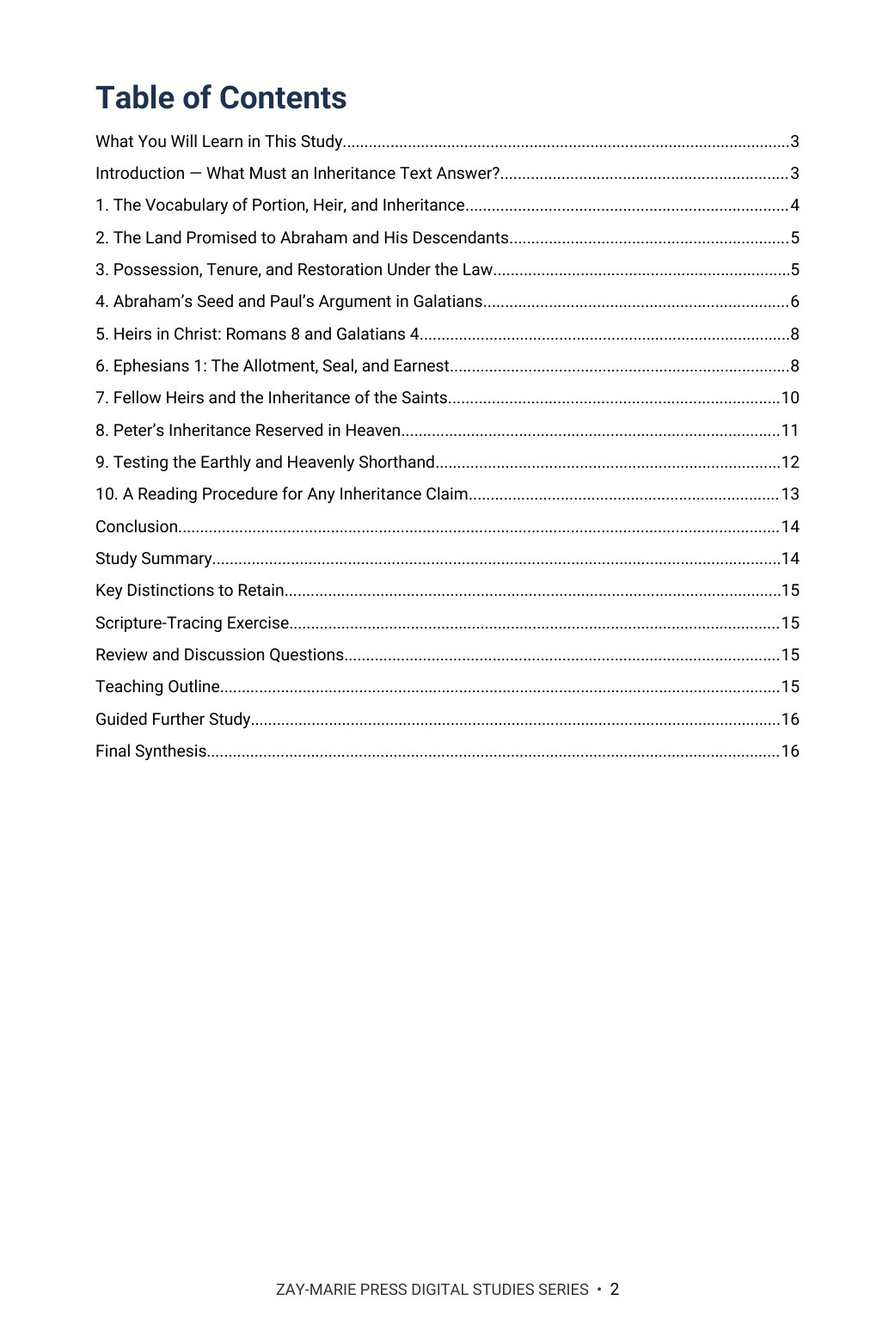
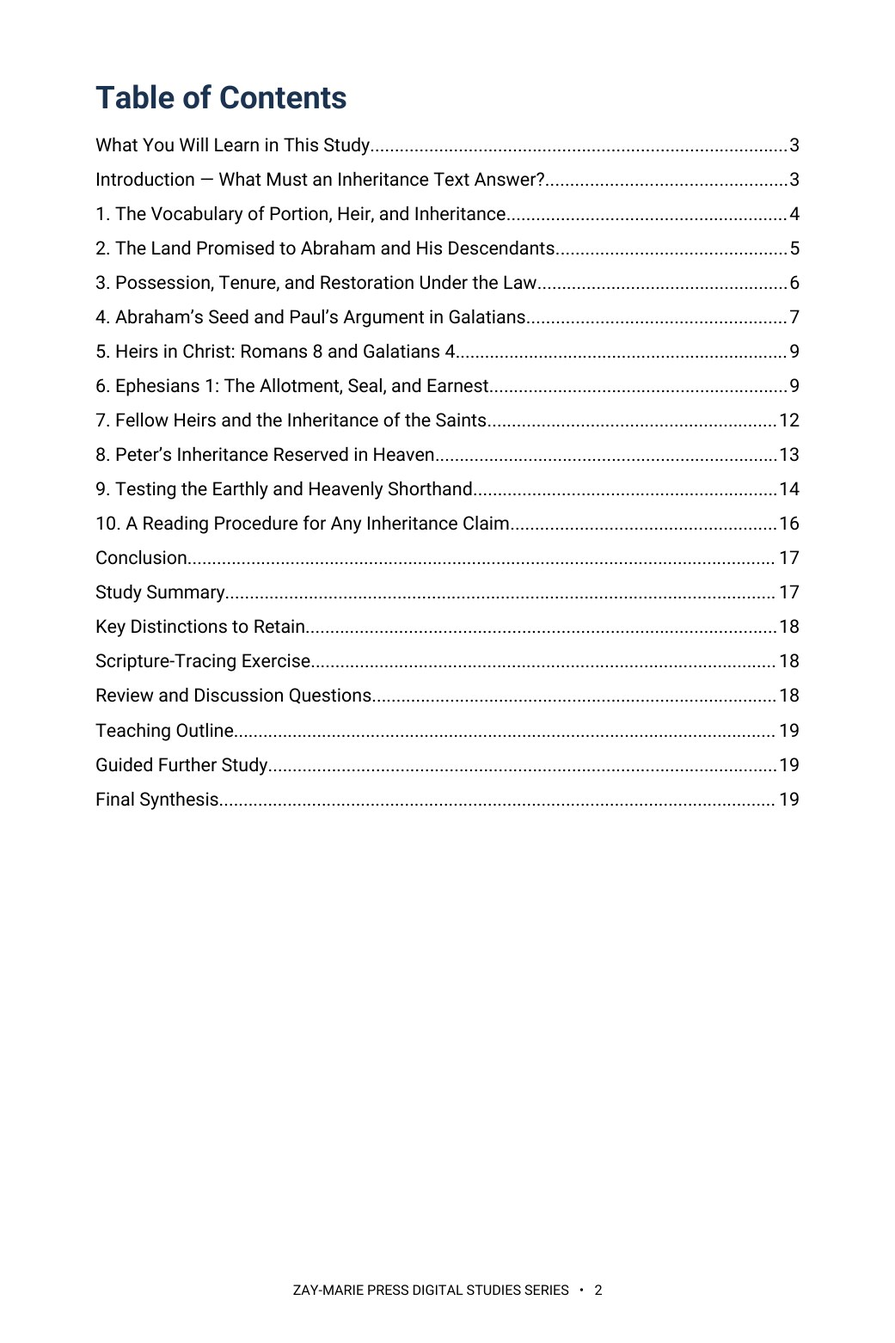
Study 56: rebuild at 10 pt (20 pages), retrofit edits, previews 2/3/4; trackers v1.69/v1.163
Claude-Session: https://claude.ai/code/session_01KcENxFzE91mCRyTPWhcwnE

Changed region(s): [[0.0922, 0.0922, 0.6148, 0.6146], [0.8607, 0.0922, 0.8915, 0.5839], [0.3074, 0.9526, 0.6455, 0.9834]]

diff --git a/study-56-inheritance.html b/study-56-inheritance.html
@@ -1,13 +1,13 @@
 <!doctype html>
-<html lang="en"><head><meta charset="utf-8"><meta name="viewport" content="width=device-width,initial-scale=1"><title>Inheritance | Zay-Marie Press</title><meta name="description" content="Study 56 examines inheritance language across Israel’s land promise, Paul’s teaching about heirs in Christ, and Peter’s inheritance reserved in heaven. Preview the 16-page study."><link rel="stylesheet" href="styles.css?v=20260921-4"><link rel="icon" type="image/png" href="assets/zay-marie-press-favicon.png"><style>
+<html lang="en"><head><meta charset="utf-8"><meta name="viewport" content="width=device-width,initial-scale=1"><title>Inheritance | Zay-Marie Press</title><meta name="description" content="Study 56 examines inheritance language across Israel’s land promise, Paul’s teaching about heirs in Christ, and Peter’s inheritance reserved in heaven. Preview the 20-page study."><link rel="stylesheet" href="styles.css?v=20260921-4"><link rel="icon" type="image/png" href="assets/zay-marie-press-favicon.png"><style>
 .study-detail-page{background:#fff;color:#252525}.detail-hero{background:linear-gradient(135deg,#f8f5ec,#e3ece2);padding:58px 0}.detail-hero-grid{display:grid;grid-template-columns:minmax(250px,.72fr) minmax(0,1.28fr);gap:58px;align-items:center}.detail-cover{max-width:390px;margin:auto}.detail-cover img{display:block;width:100%;height:auto;box-shadow:0 14px 36px rgba(8,45,69,.18)}.detail-hero h1{font-size:clamp(2.7rem,5vw,4.7rem);line-height:1.02;margin:8px 0 10px;color:#143823}.detail-subtitle{font-family:Georgia,serif;font-size:1.35rem;font-weight:700;color:#082d45;margin:0 0 7px}.detail-kicker{font-family:Georgia,serif;font-style:italic;font-size:1.05rem;color:#4a4a44;margin:0 0 22px}.detail-copy{font-size:1.08rem;line-height:1.65;max-width:760px}.detail-buyline{display:flex;align-items:center;gap:18px;flex-wrap:wrap;margin-top:25px}.detail-price{font-family:Georgia,serif;font-size:2rem;font-weight:700;color:#143823}.detail-format,.preview-card .page-no{font-family:Arial,sans-serif;font-size:.76rem;font-weight:700;letter-spacing:.1em;text-transform:uppercase;color:#176b3a}.detail-button{display:inline-block;background:#176b3a;color:#fff;padding:13px 22px;font-family:Arial,sans-serif;font-size:.8rem;font-weight:700;letter-spacing:.07em;text-transform:uppercase}.detail-button.pending{opacity:.72;cursor:default}.detail-section{padding:66px 0}.detail-section.soft{background:#f6f7f2}.detail-section.cream{background:#faf8f2}.detail-section h2{color:#143823;margin:6px 0 18px;font-size:clamp(2rem,3.4vw,3rem)}.detail-section .lead{max-width:920px;font-size:1.1rem;line-height:1.62}.study-distinction{max-width:920px;margin-top:28px;margin-bottom:28px;padding:26px 28px;background:#fff;border:1px solid #d8d1bf;border-left:4px solid #b8871c}.study-distinction h3{margin:0 0 10px;color:#143823}.study-distinction p{margin:0 0 14px;line-height:1.62}.study-distinction a{font-family:Arial,sans-serif;font-weight:700;color:#176b3a;text-decoration:none}.study-points{display:grid;grid-template-columns:repeat(3,1fr);gap:18px;margin-top:28px;margin-bottom:28px}.study-point,.scripture-card,.preview-card,.include-item{background:#fff;border:1px solid var(--line);text-align:left}.study-point{border-top:3px solid #176b3a;padding:22px}.study-point h3{color:#143823;margin:0 0 8px;font-size:1.2rem}.study-point p,.scripture-card p,.preview-card p,.include-item p{margin:0;line-height:1.55}.scripture-grid{display:grid;grid-template-columns:repeat(4,1fr);gap:14px;margin-top:24px;margin-bottom:24px}.scripture-card{padding:22px 20px;color:#143823}.scripture-card h3{margin:0 0 9px;font-family:Georgia,serif;font-size:1rem;line-height:1.35}.scripture-card p{font-size:.94rem;color:#45453f}.excerpt{max-width:900px;margin:28px auto;border-left:4px solid #b8871c;padding:10px 0 10px 28px}.excerpt blockquote{font-family:Georgia,serif;font-size:clamp(1.45rem,2.5vw,2rem);line-height:1.45;color:#143823;margin:0 0 16px}.excerpt p{line-height:1.6;margin:0}.preview-grid{display:grid;grid-template-columns:repeat(2,1fr);gap:20px;margin-top:28px;margin-bottom:28px}.preview-card{padding:18px;min-height:210px;box-shadow:0 7px 20px rgba(20,40,25,.05)}.preview-image-link{display:block;margin:0 0 18px}.preview-image-link img{display:block;width:100%;height:auto;border:1px solid #d8d1bf;box-shadow:0 8px 22px rgba(20,40,25,.1);transition:transform .18s ease,box-shadow .18s ease}.preview-image-link:hover img{transform:translateY(-2px);box-shadow:0 11px 28px rgba(20,40,25,.16)}.preview-card h3{color:#143823;margin:8px 0 10px}.preview-instruction{margin:10px 0 0;font-family:Arial,sans-serif;font-size:.78rem;letter-spacing:.04em;color:#5b5b55}.includes-grid{display:grid;grid-template-columns:repeat(4,1fr);gap:14px;margin-top:26px}.include-item{padding:22px 20px;color:#143823}.include-item h3{margin:0 0 9px;font-family:Arial,sans-serif;font-size:.86rem;line-height:1.35;letter-spacing:.02em}.include-item p{font-size:.94rem;color:#45453f}.final-buy{background:#082d45;color:#fff;border-top:4px solid #b8871c;padding:42px 48px;display:grid;grid-template-columns:1fr auto;gap:36px;align-items:center}.final-buy .eyebrow,.final-buy h2,.final-buy .detail-price{color:#fff}.final-buy h2{margin:7px 0 6px}.final-buy p{margin:0}.final-offer{text-align:center}.back-link{display:inline-block;margin-top:18px;color:#143823;font-family:Arial,sans-serif;font-weight:700;text-decoration:none}.preview-lightbox{position:fixed;inset:0;z-index:10000;display:none;align-items:flex-start;justify-content:center;background:rgba(8,22,16,.88);padding:24px;overflow:auto}.preview-lightbox.open{display:flex}.preview-lightbox img{display:block;width:auto;height:auto;max-width:none;box-shadow:0 18px 55px rgba(0,0,0,.4);background:#fff}.preview-lightbox-close{position:fixed;top:18px;right:24px;z-index:10001;width:46px;height:46px;border:1px solid rgba(255,255,255,.65);border-radius:50%;background:rgba(0,0,0,.55);color:#fff;font:32px/1 Arial,sans-serif;cursor:pointer}@media(max-width:900px){.detail-hero-grid{grid-template-columns:1fr;gap:34px}.detail-cover{max-width:330px}.study-points{grid-template-columns:repeat(2,1fr)}.scripture-grid,.includes-grid{grid-template-columns:repeat(2,1fr)}.preview-grid,.final-buy{grid-template-columns:1fr}.final-offer{text-align:left}}@media(max-width:560px){.detail-hero{padding:42px 0}.detail-section{padding:50px 0}.study-points,.scripture-grid,.includes-grid{grid-template-columns:1fr}.final-buy{padding:32px 24px}.detail-buyline{align-items:flex-start;flex-direction:column;gap:8px}.preview-lightbox{padding:58px 10px 24px}.preview-lightbox img{width:100%;max-width:100%;height:auto}} .detail-hero h1{font-size:clamp(2.1rem,4.2vw,3.7rem);line-height:1.08}</style></head><body class="study-detail-page">
 <header class="site-header"><div class="wrap nav"><a class="logo" href="index.html" aria-label="Zay-Marie Press home"><img src="assets/zay-marie-press-logo-hq.png" alt="Zay-Marie Press" width="420" height="238"></a><button class="menu-toggle" type="button" aria-expanded="false" aria-controls="primary-nav">MENU</button><nav aria-label="Primary navigation" class="primary-nav" id="primary-nav"><a href="index.html">HOME</a><a href="books.html">BOOKS</a><a href="series.html">SERIES</a><a class="active" aria-current="page" href="digital-studies.html">DIGITAL STUDIES</a><a href="biblical-hermeneutics-course.html">COURSE</a><a href="about.html">ABOUT</a><a href="resources.html">RESOURCES</a><a href="contact.html">CONTACT</a></nav></div></header><main>
-<section class="detail-hero"><div class="wrap detail-hero-grid"><div class="detail-cover"><picture><source srcset="assets/study-56-cover.webp" type="image/webp"><img src="assets/study-56-cover.jpg" alt="Inheritance — Study 56 cover"></picture></div><div><div class="eyebrow">STUDY 56 · DIGITAL STUDY</div><h1>Inheritance</h1><p class="detail-subtitle">Israel’s Land Promise, the Body’s Inheritance in Christ, and the Meaning of Heir Language</p><p class="detail-kicker">A passage-by-passage word study of promise, heirship, and possession</p><p class="detail-copy">What does Scripture actually grant when it calls someone an heir? This study asks who gives, who receives, what is promised, on what basis, and when it is enjoyed. It follows Israel’s named land promise, Paul’s teaching about heirs in Christ, and Peter’s imperishable inheritance reserved in heaven.</p><p class="detail-copy">The same inheritance vocabulary does not make every promised possession identical. Read Genesis, Deuteronomy, Galatians, Romans, Ephesians, Colossians, and 1 Peter with each passage’s recipients and stated object in view.</p><div class="detail-buyline"><span class="detail-price">$5.99</span><span class="detail-format">Digital PDF · 16 Pages</span><span class="detail-button pending" aria-disabled="true">Checkout Coming Soon</span></div></div></div></section>
+<section class="detail-hero"><div class="wrap detail-hero-grid"><div class="detail-cover"><picture><source srcset="assets/study-56-cover.webp" type="image/webp"><img src="assets/study-56-cover.jpg" alt="Inheritance — Study 56 cover"></picture></div><div><div class="eyebrow">STUDY 56 · DIGITAL STUDY</div><h1>Inheritance</h1><p class="detail-subtitle">Israel’s Land Promise, the Body’s Inheritance in Christ, and the Meaning of Heir Language</p><p class="detail-kicker">A passage-by-passage word study of promise, heirship, and possession</p><p class="detail-copy">What does Scripture actually grant when it calls someone an heir? This study asks who gives, who receives, what is promised, on what basis, and when it is enjoyed. It follows Israel’s named land promise, Paul’s teaching about heirs in Christ, and Peter’s imperishable inheritance reserved in heaven.</p><p class="detail-copy">The same inheritance vocabulary does not make every promised possession identical. Read Genesis, Deuteronomy, Galatians, Romans, Ephesians, Colossians, and 1 Peter with each passage’s recipients and stated object in view.</p><div class="detail-buyline"><span class="detail-price">$5.99</span><span class="detail-format">Digital PDF · 20 Pages</span><span class="detail-button pending" aria-disabled="true">Checkout Coming Soon</span></div></div></div></section>
 <section class="detail-section"><div class="wrap"><div class="eyebrow">ABOUT THIS STUDY</div><h2>What Does Each Heir Receive?</h2><p class="lead">God names a land for Abraham’s covenant line; the law orders Israel’s enjoyment and anticipates judgment and restoration. Paul calls believers sons and heirs in Christ, names the Spirit as the earnest of an inheritance, and describes Gentiles as fellow heirs in one Body. Peter promises an imperishable inheritance reserved in heaven. The study reads these statements together without making a shared word settle what each passage leaves unstated.</p><p class="lead">Study 5 surveys the Body’s wider heavenly calling; this study examines the narrower question of what inheritance passages say an heir receives. Study 17 establishes the Abrahamic covenant’s line, land, nation, and blessing, while Study 56 follows how the promised land is held, historically possessed, and expected after dispersion. Study 40 asks how Paul uses Abraham’s seed, faith, and promise; this study compares that heir language with other apostolic inheritance passages. Study 52 establishes sonship and adoption; this study asks what follows from the status of heir. The question Study 56 alone follows across these settings is: who inherits what, on what basis, and when?</p>
 <div class="study-distinction"><h3>How These Studies Relate</h3><p>Study 56 traces the promised possession in each context. These neighboring studies establish the covenant, calling, and heir status needed for that comparison.</p><p><a href="study-05-the-heavenly-calling.html">Study 5 — The Heavenly Calling</a> Read the full pattern of the Body’s position, blessings, citizenship, hope, and purpose; then use Study 56 to examine the inheritance language within it.</p><p><a href="study-17-the-abrahamic-covenant.html">Study 17 — The Abrahamic Covenant</a> Establish the covenant’s named land and line in Genesis before comparing later claims about heirs and possession.</p><p><a href="study-40-who-is-abrahams-seed.html">Study 40 — Who Is Abraham’s Seed?</a> Follow Paul’s specific seed and promise argument in Romans and Galatians; then test inheritance claims across a wider group of passages.</p><p><a href="study-57-the-eternal-purpose-of-god.html">Study 57 — The Eternal Purpose of God</a> Read Ephesians 1–3 on purpose and headship after Study 56 identifies the heirs and objects each inheritance passage names; one comprehensive purpose does not silently transfer Israel’s land grant.</p><p class="connection-guide-link"><a href="study-connections.html#study-56">Explore the full connection guide for Study 56 →</a></p></div>
 <div class="eyebrow">WHAT YOU’LL STUDY</div><h2>Read the Promise, the Heir, and the Possession</h2><div class="study-points"><div class="study-point"><h3>Inheritance Vocabulary</h3><p>Trace naḥălâ, klēronomia and the related terms through their clauses, noting what each leaves unstated about giver, heir and object.</p></div><div class="study-point"><h3>The Land Promise</h3><p>Follow Genesis 15:8, Genesis 17:7–8 and Deuteronomy 30:1–5, noting the object each names and how the Mosaic law orders Israel’s tenure.</p></div><div class="study-point"><h3>Heirs in Christ</h3><p>Read Galatians 3–4 and Romans 8 in sequence, marking each step Paul names from promise to faith, the Spirit, adoption and heirship.</p></div><div class="study-point"><h3>The Spirit’s Earnest</h3><p>Work through Ephesians 1:11–14 and 3:6 clause by clause, marking the pronouns, the verb in verse 11 and the word “earnest.”</p></div><div class="study-point"><h3>Peter’s Reserved Inheritance</h3><p>Read 1 Peter 1:1–9 in its own setting, noting its addressees and what “reserved in heaven” does and does not state.</p></div><div class="study-point"><h3>A Repeatable Reading Method</h3><p>Practice six questions on each passage: giver, heir, object, basis, timing and what the text leaves unstated.</p></div></div>
 <div class="eyebrow">KEY SCRIPTURES</div><h2>Compare the Texts Without Flattening Them</h2><div class="scripture-grid"><div class="scripture-card"><h3>Genesis 15:7–21</h3><p>Trace Abram’s question about inheriting and the object God names in answer.</p></div><div class="scripture-card"><h3>Deuteronomy 30:1–10</h3><p>Mark who is addressed, what is gathered, and the land that is possessed.</p></div><div class="scripture-card"><h3>Galatians 3:14–29; 4:4–7</h3><p>Follow the sequence from promise and blessing to the Spirit, adoption and heirs.</p></div><div class="scripture-card"><h3>Romans 8:14–25</h3><p>Note how children, joint heirs, suffering and future glory are joined.</p></div><div class="scripture-card"><h3>Ephesians 1:11–18; 3:6</h3><p>Compare the pronouns “we,” “ye” and “our,” the earnest, and the fellow-heir coordination.</p></div><div class="scripture-card"><h3>Joshua 21:43–45</h3><p>Read the fulfillment and rest language in its historical setting.</p></div><div class="scripture-card"><h3>Colossians 1:12–14</h3><p>Observe what the Father’s qualifying act states and what it leaves unlisted.</p></div><div class="scripture-card"><h3>1 Peter 1:1–5</h3><p>Mark the addressees, the three adjectives, and who keeps whom.</p></div></div>
 <div class="eyebrow">FROM THE STUDY</div><h2>A Question for Every Inheritance Text</h2><div class="excerpt"><blockquote>Who gives? Who receives? What is given? On what basis? When is it enjoyed?</blockquote><p>These questions keep a shared word from answering a question the passage never addresses.</p></div>
 <div class="eyebrow">A LOOK INSIDE</div><h2>Preview the Study Before You Purchase</h2><p class="preview-instruction">Click any page to enlarge it for reading.</p><div class="preview-grid"><div class="preview-card"><a class="preview-image-link" data-preview-lightbox href="assets/study-56-page-2.jpg"><img src="assets/study-56-page-2.jpg" alt="Study 56 interior page 2 table of contents"></a><div class="page-no">Interior Page 2</div><h3>Table of Contents</h3><p>See the study’s full sequence and the passages it compares.</p></div><div class="preview-card"><a class="preview-image-link" data-preview-lightbox href="assets/study-56-page-3.jpg"><img src="assets/study-56-page-3.jpg" alt="Study 56 interior page 3 learning outcomes and outline"></a><div class="page-no">Interior Page 3</div><h3>What You Will Learn</h3><p>Read the goal, questions, and method that guide the study.</p></div><div class="preview-card"><a class="preview-image-link" data-preview-lightbox href="assets/study-56-page-4.jpg"><img src="assets/study-56-page-4.jpg" alt="Study 56 interior page 4 on inheritance vocabulary"></a><div class="page-no">Interior Page 4</div><h3>The Vocabulary of Inheritance</h3><p>See how the word study begins with the heir and the object actually named.</p></div></div>
-<div class="eyebrow">WHAT’S INCLUDED</div><h2>A Focused Study of Inheritance</h2><div class="includes-grid"><div class="include-item"><h3>16-Page Digital PDF</h3><p>Approved cover and 15-page interior with a numbered table of contents.</p></div><div class="include-item"><h3>Ten Teaching Sections</h3><p>Move from vocabulary and covenant land to Paul’s and Peter’s inheritance passages.</p></div><div class="include-item"><h3>Passage Comparison Table</h3><p>Compare recipients, stated inheritance, and each text’s interpretive limit.</p></div><div class="include-item"><h3>Key Distinctions</h3><p>Keep covenant grant, tenure, sonship, present pledge, and future enjoyment distinct.</p></div><div class="include-item"><h3>Scripture-Tracing Exercise</h3><p>Apply six questions to the governing passages before comparing conclusions.</p></div><div class="include-item"><h3>Teaching Outline and Further Study</h3><p>Use the reading method to teach the subject and continue the investigation.</p></div></div>
-<div class="final-buy"><div><div class="eyebrow">STUDY 56 · DIGITAL STUDY</div><h2>Inheritance</h2><p>16-page digital PDF · For personal use</p></div><div class="final-offer"><div class="detail-price">$5.99</div><span class="detail-button pending" aria-disabled="true">Checkout Coming Soon</span></div></div><a class="back-link" href="digital-studies.html">← Back to All Digital Studies</a></div></section></main><div class="preview-lightbox" id="preview-lightbox" role="dialog" aria-modal="true" aria-label="Expanded study preview"><button class="preview-lightbox-close" type="button" aria-label="Close preview">×</button><img id="preview-lightbox-image" alt=""></div><footer class="site-footer"><div class="wrap footer-grid"><div class="footer-about"><h3>Zay-Marie Press</h3><p class="footer-tagline"><em>Where the Bible Means What It Says.</em></p><p>Zay-Marie Press is a Christian theological publisher dedicated to producing doctrinally precise, carefully structured biblical resources that equip pastors, teachers, and serious students with clarity, depth, and Scripture-anchored truth.</p><p><a href="https://zaymariepress.com">zaymariepress.com</a><br><a href="mailto:info@zaymariepress.com">info@zaymariepress.com</a></p></div><div class="footer-column"><h3>Explore</h3><div class="footer-links-stacked"><a href="books.html">Books</a><br><a href="series.html">Series</a><br><a href="biblical-hermeneutics-course.html">Course</a><br><a href="digital-studies.html">Digital Studies</a><br><a href="resources.html">Resources</a><br><a href="bible-book-summaries.html">Bible Book Summaries</a><br><a href="doctrinal-packets.html">Doctrinal Packets</a><br><a href="historical-drift.html">Historical Drift</a><br><a href="about.html">About</a><br><a href="contact.html">Contact</a></div></div><div class="footer-column"><h3>Reader Support</h3><div class="footer-links-stacked"><a href="reader-support.html#faq">FAQ</a><br><a href="reader-support.html#shipping-returns">Shipping &amp; Returns</a><br><a href="reader-support.html#digital-downloads">Digital Downloads</a><br><a href="reader-support.html#contact-support">Contact Support</a></div></div><div class="footer-column"><h3>Acts Overlap</h3><p><strong>Acts Overlap Theology Series</strong></p><p><em>Two Distinct Streams. One Overlap.</em></p><p><a href="series.html">Series Overview</a></p></div></div><div class="wrap footer-bottom">© 2026 Zay-Marie Press. All rights reserved.</div></footer><script src="site.js"></script><script>const lightbox=document.getElementById('preview-lightbox'),lightboxImage=document.getElementById('preview-lightbox-image'),closeLightbox=()=>{lightbox.classList.remove('open');lightboxImage.src='';};document.querySelectorAll('[data-preview-lightbox]').forEach(link=>link.addEventListener('click',event=>{event.preventDefault();lightboxImage.src=link.href;lightboxImage.alt=link.querySelector('img').alt;lightbox.classList.add('open');}));document.querySelector('.preview-lightbox-close').addEventListener('click',closeLightbox);lightbox.addEventListener('click',event=>{if(event.target===lightbox)closeLightbox();});document.addEventListener('keydown',event=>{if(event.key==='Escape')closeLightbox();});</script></body></html>
+<div class="eyebrow">WHAT’S INCLUDED</div><h2>A Focused Study of Inheritance</h2><div class="includes-grid"><div class="include-item"><h3>20-Page Digital PDF</h3><p>Approved cover and 19-page interior with a numbered table of contents.</p></div><div class="include-item"><h3>Ten Teaching Sections</h3><p>Move from vocabulary and covenant land to Paul’s and Peter’s inheritance passages.</p></div><div class="include-item"><h3>Passage Comparison Table</h3><p>Compare recipients, stated inheritance, and each text’s interpretive limit.</p></div><div class="include-item"><h3>Key Distinctions</h3><p>Keep covenant grant, tenure, sonship, present pledge, and future enjoyment distinct.</p></div><div class="include-item"><h3>Scripture-Tracing Exercise</h3><p>Apply six questions to the governing passages before comparing conclusions.</p></div><div class="include-item"><h3>Teaching Outline and Further Study</h3><p>Use the reading method to teach the subject and continue the investigation.</p></div></div>
+<div class="final-buy"><div><div class="eyebrow">STUDY 56 · DIGITAL STUDY</div><h2>Inheritance</h2><p>20-page digital PDF · For personal use</p></div><div class="final-offer"><div class="detail-price">$5.99</div><span class="detail-button pending" aria-disabled="true">Checkout Coming Soon</span></div></div><a class="back-link" href="digital-studies.html">← Back to All Digital Studies</a></div></section></main><div class="preview-lightbox" id="preview-lightbox" role="dialog" aria-modal="true" aria-label="Expanded study preview"><button class="preview-lightbox-close" type="button" aria-label="Close preview">×</button><img id="preview-lightbox-image" alt=""></div><footer class="site-footer"><div class="wrap footer-grid"><div class="footer-about"><h3>Zay-Marie Press</h3><p class="footer-tagline"><em>Where the Bible Means What It Says.</em></p><p>Zay-Marie Press is a Christian theological publisher dedicated to producing doctrinally precise, carefully structured biblical resources that equip pastors, teachers, and serious students with clarity, depth, and Scripture-anchored truth.</p><p><a href="https://zaymariepress.com">zaymariepress.com</a><br><a href="mailto:info@zaymariepress.com">info@zaymariepress.com</a></p></div><div class="footer-column"><h3>Explore</h3><div class="footer-links-stacked"><a href="books.html">Books</a><br><a href="series.html">Series</a><br><a href="biblical-hermeneutics-course.html">Course</a><br><a href="digital-studies.html">Digital Studies</a><br><a href="resources.html">Resources</a><br><a href="bible-book-summaries.html">Bible Book Summaries</a><br><a href="doctrinal-packets.html">Doctrinal Packets</a><br><a href="historical-drift.html">Historical Drift</a><br><a href="about.html">About</a><br><a href="contact.html">Contact</a></div></div><div class="footer-column"><h3>Reader Support</h3><div class="footer-links-stacked"><a href="reader-support.html#faq">FAQ</a><br><a href="reader-support.html#shipping-returns">Shipping &amp; Returns</a><br><a href="reader-support.html#digital-downloads">Digital Downloads</a><br><a href="reader-support.html#contact-support">Contact Support</a></div></div><div class="footer-column"><h3>Acts Overlap</h3><p><strong>Acts Overlap Theology Series</strong></p><p><em>Two Distinct Streams. One Overlap.</em></p><p><a href="series.html">Series Overview</a></p></div></div><div class="wrap footer-bottom">© 2026 Zay-Marie Press. All rights reserved.</div></footer><script src="site.js"></script><script>const lightbox=document.getElementById('preview-lightbox'),lightboxImage=document.getElementById('preview-lightbox-image'),closeLightbox=()=>{lightbox.classList.remove('open');lightboxImage.src='';};document.querySelectorAll('[data-preview-lightbox]').forEach(link=>link.addEventListener('click',event=>{event.preventDefault();lightboxImage.src=link.href;lightboxImage.alt=link.querySelector('img').alt;lightbox.classList.add('open');}));document.querySelector('.preview-lightbox-close').addEventListener('click',closeLightbox);lightbox.addEventListener('click',event=>{if(event.target===lightbox)closeLightbox();});document.addEventListener('keydown',event=>{if(event.key==='Escape')closeLightbox();});</script></body></html>

diff --git a/site.js b/site.js
@@ -62,7 +62,7 @@ const resourceModal=document.querySelector('#resource-modal'), resourceModalTitl
 if(resourceModal&&resourceModalTriggers.length){const closeResourceModal=()=>{resourceModal.hidden=true;document.body.classList.remove('resource-modal-open');lastResourceTrigger?.focus();};resourceModalTriggers.forEach(trigger=>trigger.addEventListener('click',()=>{lastResourceTrigger=trigger;if(resourceModalTitle)resourceModalTitle.textContent=trigger.dataset.title||'Resource';if(resourceModalDescription)resourceModalDescription.textContent=trigger.dataset.description||'';if(resourceModalLink){resourceModalLink.href=trigger.dataset.href||'#';resourceModalLink.textContent=trigger.dataset.linkText||'OPEN RESOURCE';}resourceModal.hidden=false;document.body.classList.add('resource-modal-open');resourceModalClose?.focus();}));resourceModalClose?.addEventListener('click',closeResourceModal);resourceModal.addEventListener('click',e=>{if(e.target===resourceModal)closeResourceModal();});document.addEventListener('keydown',e=>{if(e.key==='Escape'&&!resourceModal.hidden)closeResourceModal();});}
 
 /* Display the verified final-PDF page count at the primary purchase decision point. */
-const digitalStudyPageCounts={1:17,2:19,3:16,4:18,5:16,6:16,7:14,8:13,9:16,10:20,11:15,12:15,13:19,14:15,15:15,16:16,17:18,18:18,19:16,20:16,21:17,22:16,23:14,24:16,25:17,26:16,27:16,28:16,29:19,30:17,31:18,32:19,33:18,34:16,35:16,36:16,37:16,38:16,39:16,40:16,41:16,42:16,43:20,44:16,45:16,46:20,47:16,48:16,49:17,50:16,51:16,52:19,53:19,54:16,55:20,56:16,57:16,58:16,59:20,60:15,61:16,62:16,63:16,64:16,65:16,66:16,67:16,68:16,69:16,70:16,71:16};
+const digitalStudyPageCounts={1:17,2:19,3:16,4:18,5:16,6:16,7:14,8:13,9:16,10:20,11:15,12:15,13:19,14:15,15:15,16:16,17:18,18:18,19:16,20:16,21:17,22:16,23:14,24:16,25:17,26:16,27:16,28:16,29:19,30:17,31:18,32:19,33:18,34:16,35:16,36:16,37:16,38:16,39:16,40:16,41:16,42:16,43:20,44:16,45:16,46:20,47:16,48:16,49:17,50:16,51:16,52:19,53:19,54:16,55:20,56:20,57:16,58:16,59:20,60:15,61:16,62:16,63:16,64:16,65:16,66:16,67:16,68:16,69:16,70:16,71:16};
 const digitalStudyMatch=window.location.pathname.match(/\/study-(\d+)-/i);
 const digitalStudyFormat=document.querySelector('.detail-hero .detail-format');
 if(digitalStudyMatch&&digitalStudyFormat){const studyNumber=Number(digitalStudyMatch[1]),pageCount=digitalStudyPageCounts[studyNumber];if(pageCount)digitalStudyFormat.textContent=`Digital PDF · ${pageCount} Pages`;}

diff --git a/CLAUDE.md b/CLAUDE.md
@@ -23,7 +23,7 @@ These are kept in the repo at `controlling-documents/` and are the current versi
 - As of v1.50 (publisher directive, 2026-10-03), the **What You Will Learn in This Study** section is always bulleted, never set as running paragraphs, written into this file in the same pass (Master Standard Section 3 item 4, Section 6 structure line, Section 22): a list of bullet points, each describing one process, textual marker or interpretive discipline the reader will practice (Section 17 still governs what they may say); at most one short lead-in line may stand above the bullets (for example, “By the end of this study, you should be able to:”); the Study Goal callout and the Study Outline keep their own forms. It governs every new study and every study rebuilt or retrofitted from now on; earlier studies take it when reopened or when the publisher directs. In every study check (Step 1), report whether the section is bulleted. First applied to Study 43.
 **`controlling-documents/Digital_Studies_Relationship_Map_v1.39.md`** — records each study's distinct subject, its related studies, the eight priced six-study collections, the Paul's Missionary Journeys cross-reference map, and the five primary catalog categories (currently version 1.39, covers Studies 1–71; update it as new studies publish, bump the version number, rename the file to match, and log the change in its own version-history table — mirroring the Master Standard's `_vX.Y` filename convention). Check a proposed topic against it before recommending or writing a new study. (2026-09-28: the file was missing from this repo despite this note referencing it; replaced from the publisher's copy and bumped v1.15→v1.25 in the same pass. If this note ever again points to a version not present under `controlling-documents/`, ask the publisher for a copy rather than proceeding without the check.)
 - **`controlling-documents/Digital_Studies_Category_Standard_v1.1.md`** — FINAL and binding (publisher, 2026-10-01): the rules for the five primary catalog categories (Foundations, Israel & Prophecy, Body of Christ, Passages, Doctrinal Themes), the ordered decision procedure for new studies, the precedents, all 71 fixed assignments, and the cover-label form for each category. Read it before placing any card or cover label. Do not ask the publisher where a study belongs; apply the procedure and state the result. Only the publisher changes a ruling; then bump this Standard's version and filename, re-letter the cover, and update the Relationship Map.
-- **`controlling-documents/Doctrinal_Upgrade_Retrofit_Plan_v1.68.md`** — working tracker for retrofitting Studies 1–59 to the 2026-10-02 doctrinal upgrade (Framework/PAM v1.1, Master Standard v1.40, Rules 7–17): withdrawn-wording search keys, impact tiers, waves and the per-study method. Read it before continuing the retrofit in any session; update status, bump the version and rename the file as work proceeds.
+- **`controlling-documents/Doctrinal_Upgrade_Retrofit_Plan_v1.69.md`** — working tracker for retrofitting Studies 1–59 to the 2026-10-02 doctrinal upgrade (Framework/PAM v1.1, Master Standard v1.40, Rules 7–17): withdrawn-wording search keys, impact tiers, waves and the per-study method. Read it before continuing the retrofit in any session; update status, bump the version and rename the file as work proceeds.
 - **`controlling-documents/Doctrinal_Packet_Standard_v0.3.md`** — Doctrinal Packet Standard (DRAFT; §7 approved). Governs the separate Doctrinal Packets product strand (5-page interpretive PDFs per Bible book — a print-friendly cover as page 1 plus 4 content pages, $2.99, KJV, pilot: Genesis, live at `packet-genesis.html`, hub `doctrinal-packets.html`; site pages say "5 Pages", cover styles live in `packets.css`, Old Testament blue and New Testament soft pale green, hub listed in Bible order). **Preview rule (publisher directive, 2026-09-29, packets only):** previews show about one page's worth in two cropped views (top of page 1 through the anchor texts; the chart section) — never the exegesis, architecture, Mystery contrast, logic chain, outline, or closing. Master Standard §16/§17 still govern Digital Studies. Bump the version and rename the file as the Standard is finalized.
 - **`controlling-documents/Preview_Page_Spoiler_Retrofit_Audit_v1.4.md`** — working tracker for the Studies 1–60 preview-page conclusion-spoiler retrofit (see the section below). Read it before continuing that audit in any session; update its status fields and changelog, bump the version, and rename the file to match as the audit proceeds — same `_vX.Y` convention as the other controlling documents. As of v1.1, the website-side half was DONE: all 60 studies' "What You'll Study" text was judged against the rule (methodology documented in the file) and 22 points across 11 studies were rewritten and pushed; an unrelated Study 22 content bug (Study 21's content had leaked into it) was also found and fixed. As of v1.2, the publisher supplied Studies 1–60's interior production PDFs and the interior-PDF half was also surveyed (read-only): 10 studies (37, 41, 45, 47, 48, 49, 51, 52, 53, 54) were found to have at least one interior "What You Will Learn" violation, 50 studies were confirmed compliant, and the orphaned `assets/study-45-sanctification-under-grace.docx` (removed from the repo per the publisher in v1.0) was confirmed word-for-word identical to Study 45's actual production interior PDF content. As of v1.3, the publisher supplied editable DOCX sources for all 10 violating studies; all 15 violating points were rewritten and approved, delivered as corrected final PDFs, and — along the way — a second defect was found and fixed (Studies 47 and 48's source DOCX still had an unintegrated cover placeholder despite both being long-published live with real covers; fixed by inserting the existing approved cover art). The website's "What You Will Learn" preview image (`study-NN-page-3.jpg`) was regenerated from the corrected content for all 10 studies and pushed to `main` (commit `cea1859`), verified against a fresh clone. **The website side of this audit is now fully compliant for all 60 studies.** Outstanding: the publisher's purchasable interior PDF files themselves have corrected versions delivered, but distribution to existing purchasers was decided by the publisher on 2026-09-29: silent swap of the files behind the existing downloads, no reissue notice (recorded in the v1.4 changelog entry; the product files are not in this repo).
 

diff --git a/controlling-documents/Doctrinal_Upgrade_Retrofit_Plan_v1.69.md b/controlling-documents/Doctrinal_Upgrade_Retrofit_Plan_v1.69.md
@@ -161,3 +161,4 @@ Working tracker for correcting published studies to the Framework/PAM v1.1, Mast
 - v1.66 (2026-10-03): Study 52 rebuilt at 10 pt (Roboto, current page) from the publisher’s older FINAL DOCX with the 2026-10-02 retrofit (plan row, v1.21) re-applied: eleven "The Framework does not assign …" anchors and the Hebrews sentence converted to reader-facing forms; Galatians 3:26–29 standing sentence (and "Israel remains Israel, and the Body is not Israel") replacing the withdrawn participation wording; Study 40 pointer removed; "participation in the seed is spiritual" reworded; Romans 11 four boundaries and triad added (Group 3). 19 pages (was 16). `site.js` 52:19; page-count text 16→19; previews 2, 3 and 5 re-rendered (same pages). Files named with ROBOTO.
 - v1.67 (2026-10-03): Study 53 rebuilt at 10 pt (Roboto, current page) from the publisher’s older FINAL DOCX with the 2026-10-02 retrofit re-applied (13 "The Framework does not assign …" lines converted to reader-facing forms, Hebrews covenant-it-quotes form; Revelation anchor removed; Gal 3:13 anchor replaced by the standing Galatians 3 sentence; Romans 11 four boundaries and triad added in 2.4; Revelation 5:9 moved from Group 2 to Group 1 in Guided Further Study, with the Group 1 and Group 2 Compare lines adjusted). 19 pages (was 16). `site.js` 53:19; page-count text 16→19; previews 2, 3, 5 re-rendered at 1041×1562. Next: 10 pt resets for 55, 56, 57, 58 (DOCX on hand); 43 and 54 need DOCX; 42, 44, 45, 47, 48, 49, 50, 51 need Roboto finals or a rebuild.
 - v1.68 (2026-10-03): Study 55 rebuilt at 10 pt (Roboto, current page) from the publisher’s older FINAL DOCX with the 2026-10-02 retrofit re-applied (2 "The Framework does not assign …" lines converted; Colossians letter line added after the second paragraph of Section 6; withdrawn "gathered into the Body" overlap sentence in 5.3 replaced by the standing overlap sentence; withdrawn clarifier in Investigation 5 replaced by the standing remnant/Body sentence; Romans 11 four boundaries and triad added in 8.2; "and not a transfer" added to Acts 28 wording in 5.3 and 8.1). 20 pages (was 16). `site.js` 55:20; page-count text 16→20; previews 2, 3 and 9 (third moved from page 8 to 9: the appeal section; `study-55-page-8.jpg` removed). Next: 10 pt resets for 56, 57, 58 (DOCX on hand); 43 and 54 need DOCX; 42, 44, 45, 47, 48, 49, 50, 51 need Roboto finals or a rebuild.
+- v1.69 (2026-10-03): Study 56 rebuilt at 10 pt (Roboto, current page) from the publisher’s older FINAL DOCX with the 2026-10-02 retrofit re-applied (1 Peter and Hebrews "The Framework does not assign …" lines converted, Hebrews to the covenant-it-quotes form; Colossians letter line added after the Colossians 3:24 paragraph; withdrawn Galatians 3 "participate spiritually" wording replaced by the standing Galatians 3 sentence; withdrawn "gathered into the Body" overlap sentence (§8, §9) replaced by the standing overlap sentence; withdrawn clarifier in Ephesians 1 (§6) replaced by the standing remnant/Body sentence; "and not a transfer" added to the Acts 28 wording in §2 and §9; "this framework" reworded to "these distinctions"). 20 pages (was 16). `site.js` 56:20; page-count text 16→20 (hero, meta description, buy panel, What’s Included 15→19 interior); previews 2, 3 and 4 re-rendered at 1041×1562. Next: 10 pt resets for 57, 58 (DOCX on hand); 43 and 54 need DOCX; 42, 44, 45, 47, 48, 49, 50, 51 need Roboto finals or a rebuild.

diff --git a/controlling-documents/Digital_Studies_PAM_Audit_v1.163.md b/controlling-documents/Digital_Studies_PAM_Audit_v1.163.md
@@ -392,3 +392,4 @@ Study 15 PDF not yet supplied. Typography: none of Studies 2, 3, 6, 8 is in EB G
 - v1.160 (2026-10-03): Study 52 rebuilt at 10 pt, 19 pages (see Retrofit Plan v1.66).
 - v1.161 (2026-10-03): Study 53 rebuilt at 10 pt, 19 pages (see Retrofit Plan v1.67).
 - v1.162 (2026-10-03): Study 55 rebuilt at 10 pt, 20 pages (see Retrofit Plan v1.68).
+- v1.163 (2026-10-03): Study 56 rebuilt at 10 pt, 20 pages (see Retrofit Plan v1.69).
